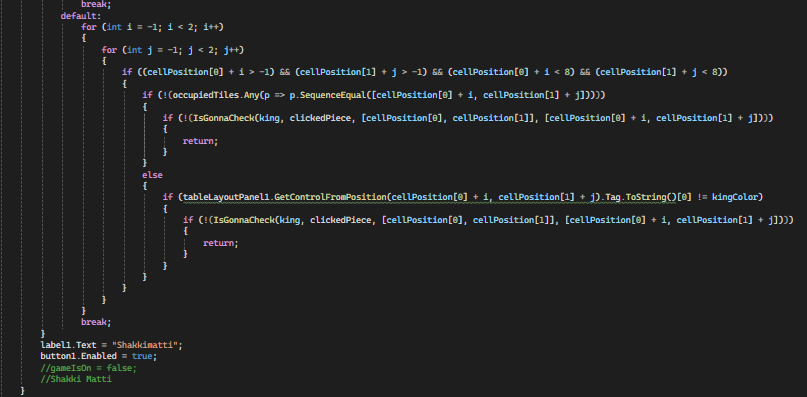
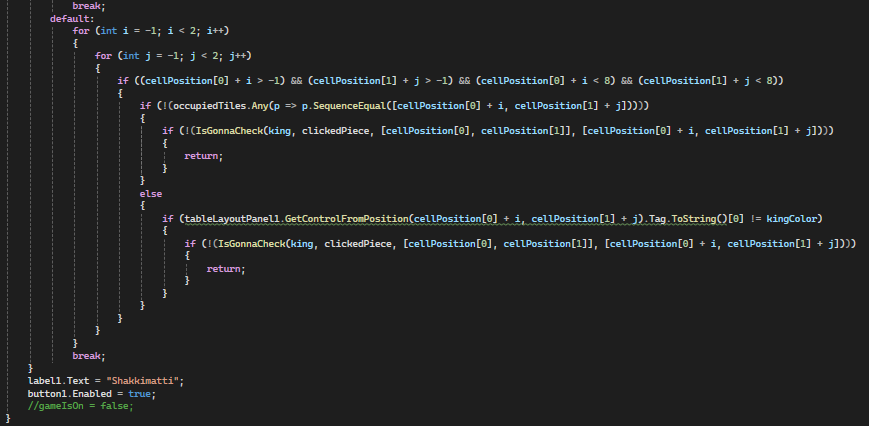
pieniä muutoksia

diff --git a/README.md b/README.md
@@ -4,7 +4,7 @@ Tämä on peli on klassinen shakki ilman ett sotilaita voi muuttaa toisiksi napp
 alkaa, kun painaa Aloita peli-napista. Nappuloita liikutetaan painamalla nappulaa ja sitten pinamalla jotain mahdollista 
 ruutua liikkua, jotka ovat joko pisteellä merkittyjä tyhjiä ruutuja tai punataustaisia vastustajan nappuloita. Aina kun 
 jomman kumman kuningas on shakissa, kuninkaalle tulee punainen tausta. Peli päättyy shakkimattiin, jolloin Aloita peli-
-nappulan ylle ilmestyy sana "Checkmate". Uuden pelin voi aloittaa painamalla Aloita peli-nappia uudestaan.
+nappulan ylle ilmestyy sana "Shakkimatti". Uuden pelin voi aloittaa painamalla Aloita peli-nappia uudestaan.
 
 ## Vuokaavio
 
